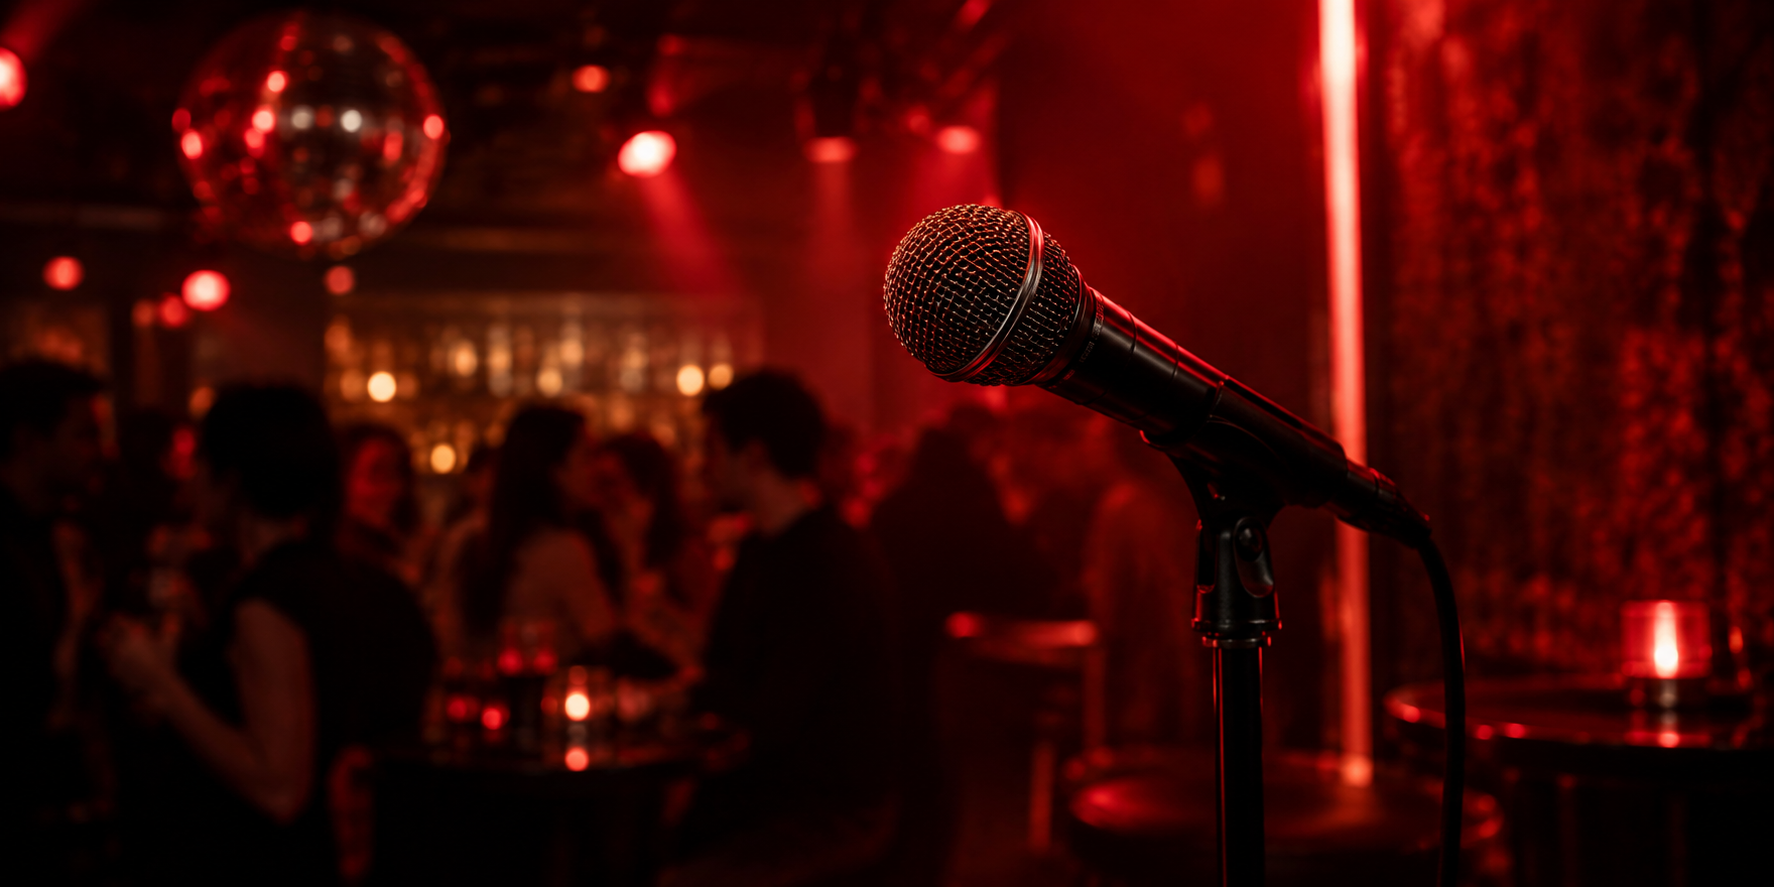
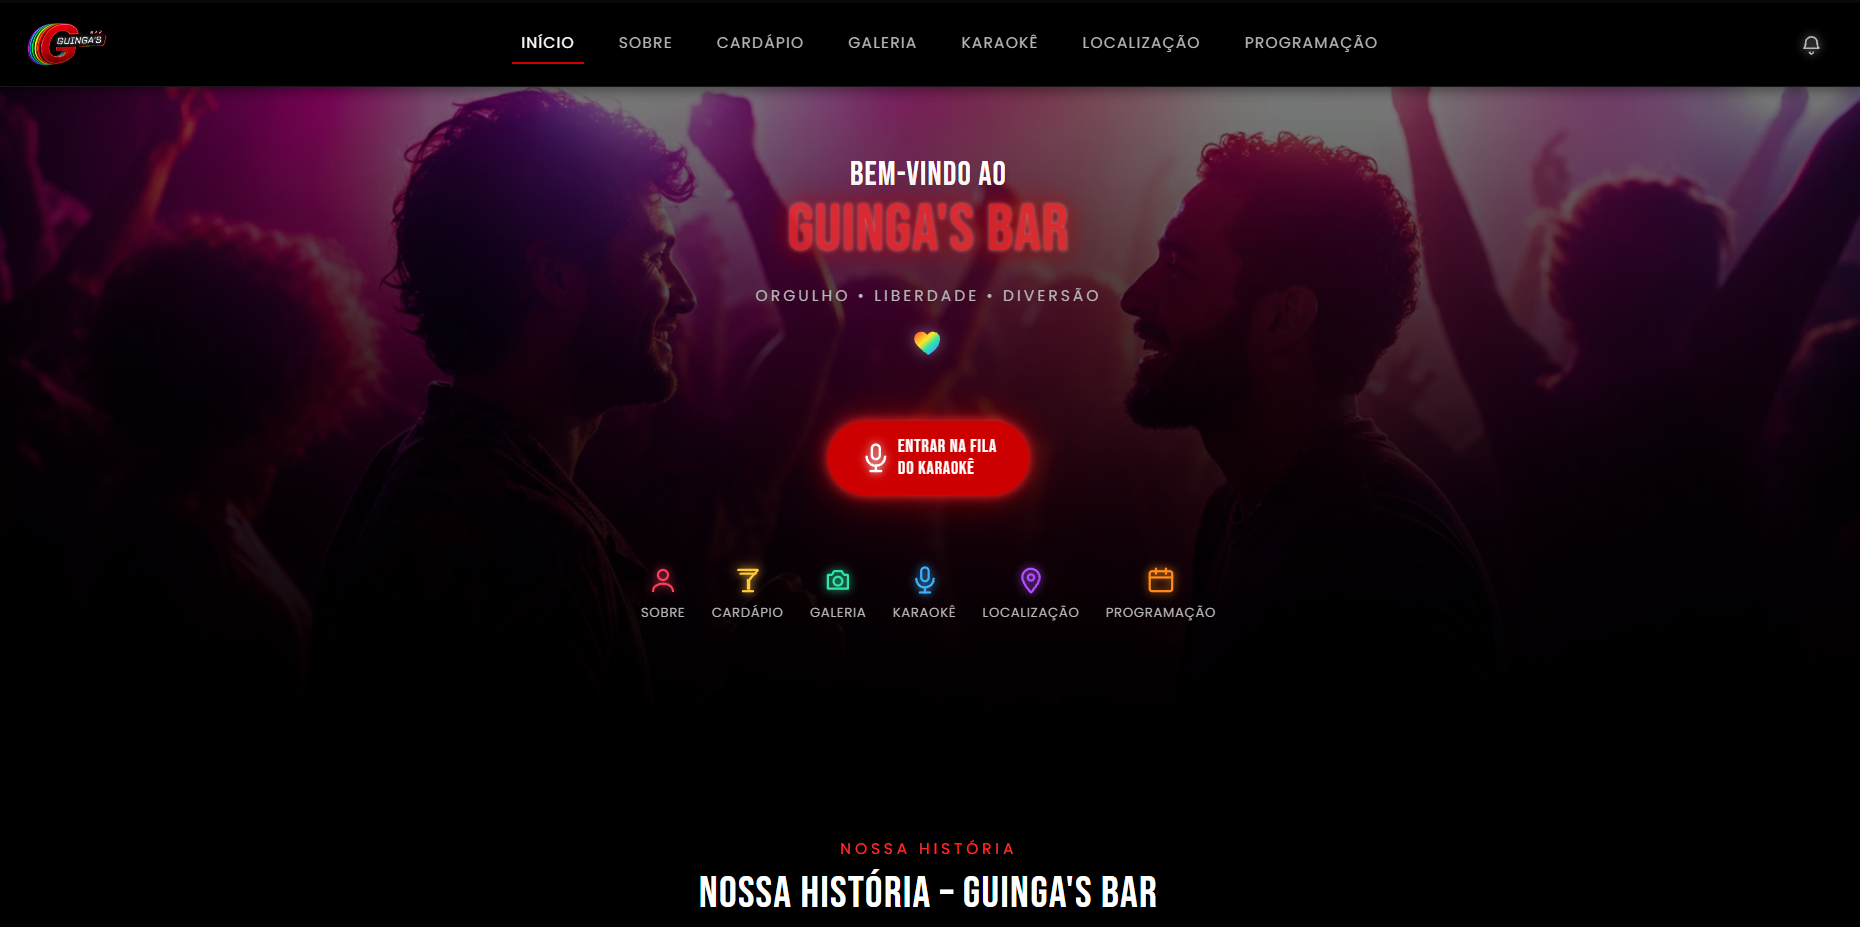
fix: usa captura real na capa do Guingas Bar

diff --git a/index.html b/index.html
@@ -140,7 +140,7 @@
         <ul class="featured__grid" aria-label="Principais projetos">
           <li>
             <a class="project-card" href="#projeto-guingas" data-project-select="guingas">
-              <span class="project-card__visual"><img src="/assets/projects/guingas.png" width="1774" height="887" alt="" loading="lazy" decoding="async" /></span>
+              <span class="project-card__visual"><img src="/assets/projects/guingas.png" width="1860" height="927" alt="" loading="lazy" decoding="async" /></span>
               <span class="project-card__heading"><span class="project-card__name">Guinga’s Bar</span></span>
               <span class="project-card__description">Site e sistema</span>
             </a>

diff --git a/design/PROJETOS-ASSETS.md b/design/PROJETOS-ASSETS.md
@@ -13,16 +13,17 @@ Desktop: quatro colunas. Tablet: duas. Celular até 480 px: uma. O menu e a cham
 
 ## Método e origem
 
-As quatro capas têm 1774 × 887 px, com corte de exibição feito apenas por CSS. Layout, imagens e interações foram conferidos em 1440, 1024, 768, 390 e 320 px, incluindo navegação por teclado, fechamento das prévias e retorno do foco.
+As capas de Elevamos, Michelle Sampaio e M.I. Ferreira têm 1774 × 887 px. A capa de Guinga’s Bar usa uma captura de tela de 1860 × 927 px fornecida pelo usuário em 15/09/2026. O corte de exibição é feito apenas por CSS. Layout, imagens e interações foram conferidos em 1440, 1024, 768, 390 e 320 px, incluindo navegação por teclado, fechamento das prévias e retorno do foco.
 
-Capas ilustrativas criadas pela ferramenta nativa `image_gen`, uma chamada por capa, sem CLI. A imagem enviada orientou a direção visual; os prompts descrevem os quatro temas. São cenas ilustrativas, não fotos documentais dos negócios, imóveis ou da pessoa Michelle Sampaio. Os originais da ferramenta foram preservados.
+As quatro capas iniciais foram criadas pela ferramenta nativa `image_gen`, uma chamada por capa, sem CLI. A imagem enviada orientou a direção visual; os prompts abaixo registram os quatro temas originais. As capas de Elevamos, Michelle Sampaio e M.I. Ferreira continuam sendo cenas ilustrativas, não fotos documentais dos negócios, imóveis ou da pessoa Michelle Sampaio. Guinga’s Bar passou a usar a captura real enviada pelo usuário. Os originais da ferramenta foram preservados.
 
 ### guingas
 
 - Arquivo usado: [guingas.png](../assets/projects/guingas.png).
-- Original: `C:/Users/Paulo/.codex/generated_images/01a0a22f-2770-7671-9e40-f5f63083b77d/exec-655ab1e3-1c29-4b5e-973a-57ae1c495bf3.png`.
+- Origem atual: captura da página inicial enviada pelo usuário, `C:/Users/Paulo/AppData/Local/Temp/codex-clipboard-898a2834-c7c6-4794-a1f0-deb36ea60033.png`, copiada sem alterações.
+- Original da capa ilustrativa anterior: `C:/Users/Paulo/.codex/generated_images/01a0a22f-2770-7671-9e40-f5f63083b77d/exec-655ab1e3-1c29-4b5e-973a-57ae1c495bf3.png`.
 
-Prompt final:
+Prompt da capa ilustrativa anterior:
 
 ```text
 Use case: photorealistic-natural. Asset type: photographic thumbnail cover for a developer portfolio project card. Produce ONE finished wide landscape photograph, approximately 2:1 aspect ratio, with no text, no logo, no frame, no UI, no collage, no watermark. Editorial cinematic photography, realistic materials, strong clear subject at small thumbnail size, restrained colors, dark edges and rich shadows suited to a midnight navy website. Full-bleed image. Keep the main subject within the central 80% so it can be cropped responsively. This is an illustrative cover, not documentation of a real named person or specific real location. Scene: a lively intimate karaoke bar at night in vivid deep red lighting. A black microphone on its stand is the close foreground subject, angled across the right half of the frame, with soft red stage lights and an atmospheric softly blurred bar crowd behind it. Dark red and black palette, small warm reflections on the microphone grille. Similar to a premium live music venue editorial image, natural depth of field.
